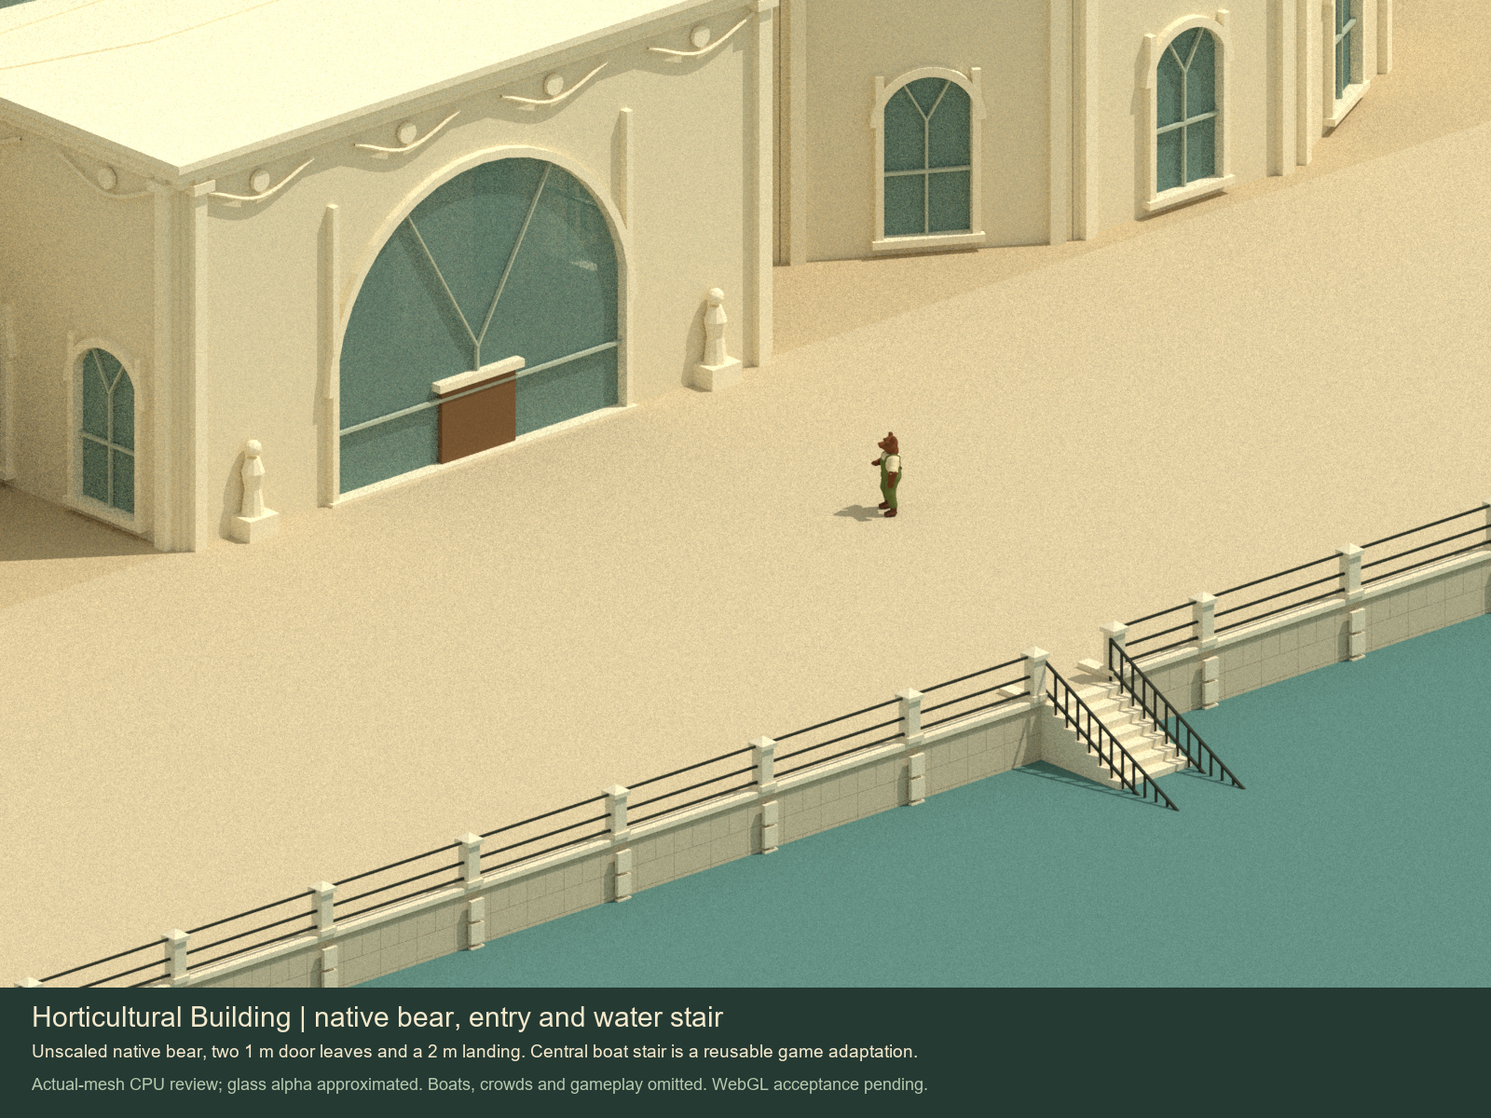
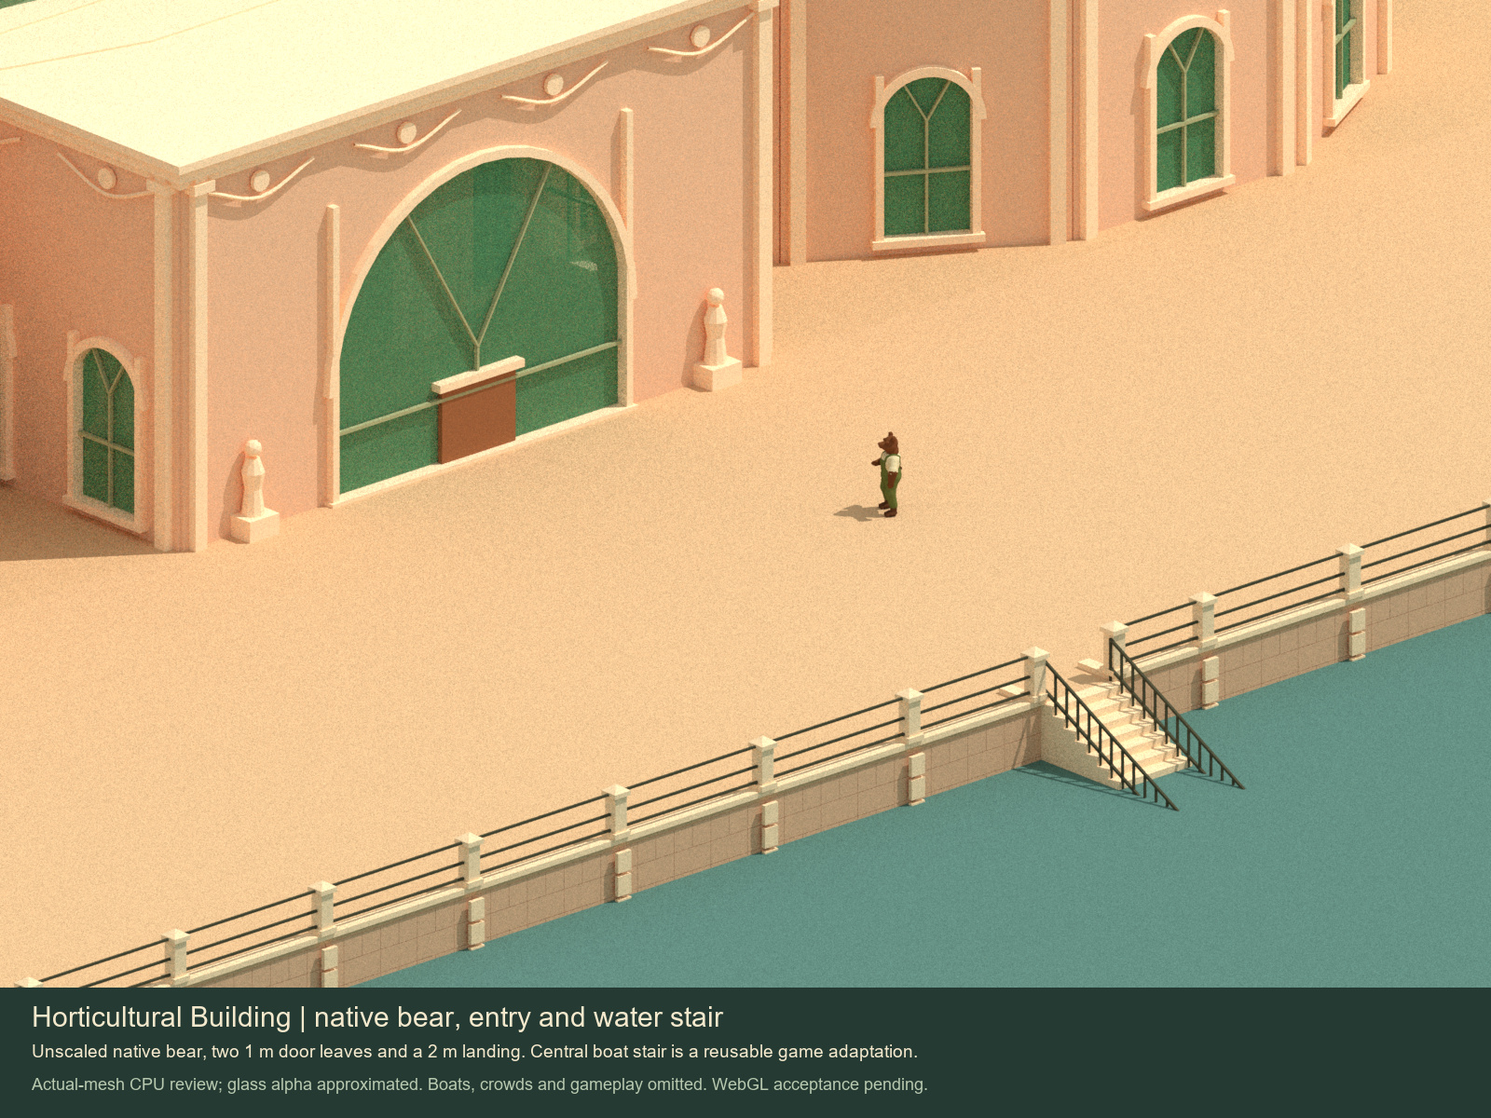
Warm Horticultural Building with soda-green glass and peach palette

Changed region(s): [[0.0, 0.0, 1.0, 0.5858], [0.6875, 0.5858, 0.7812, 0.6783], [0.7812, 0.555, 0.8125, 0.5858]]

diff --git a/assets/art/exposition-horticulture/terrace.js b/assets/art/exposition-horticulture/terrace.js
@@ -1,3 +1,4 @@
+import {HORTICULTURE_TERRACE_PALETTE,HORTICULTURE_PALETTE_ID} from './palette.js';
 import {createWaterfrontTile,APPEARANCE_SLOTS} from '../horticulture-waterfront/index.js';
 import {BODY,inside} from './plan.js';
 export {APPEARANCE_SLOTS as TERRACE_APPEARANCE_SLOTS};
@@ -23,8 +24,17 @@ export function createHorticultureTerrace(T,{materials={},textures={},quarterTur
  if(!Array.isArray(position)||position.length!==3||position.some(v=>!Number.isFinite(v))||!Number.isInteger(position[0])||!Number.isInteger(position[2])||Math.abs(position[1]/2.12-Math.round(position[1]/2.12))>1e-8)throw Error('Native tile placement requires integer X/Z and standard floor Y');
  for(const s of [...Object.keys(materials),...Object.keys(textures)])if(!APPEARANCE_SLOTS.includes(s))throw Error('Unknown appearance slot '+s);
  const root=new T.Group();root.name='exposition-horticulture/assembled-terrace';const prototypes=new Map(),batches=[],groups=new Map(),keys=new Map(),matrix=new T.Matrix4(),dummy=new T.Object3D();let closed=false,sourceParts=0,nativeSlabs=0;
+ const materialBindings={...materials};
+ function applyDefaultPalette(prototype){
+  const seen=new Set();prototype.root.traverse(o=>{
+   if(!o.isMesh||seen.has(o.material))return;seen.add(o.material);
+   const slot=o.userData.appearanceSlot;
+   if(!materialBindings[slot])o.material.color.setHex(HORTICULTURE_TERRACE_PALETTE[slot]);
+  });
+ }
+
  try{
-  for(const type of new Set(TERRACE_LAYOUT.map(p=>p.type)))prototypes.set(type,createWaterfrontTile(T,{type,materials,textures}));
+  for(const type of new Set(TERRACE_LAYOUT.map(p=>p.type))){const prototype=createWaterfrontTile(T,{type,materials,textures});applyDefaultPalette(prototype);prototypes.set(type,prototype);}
   for(const [tileIndex,p]of TERRACE_LAYOUT.entries()){
    const proto=prototypes.get(p.type);dummy.position.fromArray(p.position);dummy.rotation.set(0,p.quarterTurns*Math.PI/2,0);dummy.updateMatrix();
    proto.root.updateMatrixWorld(true);nativeSlabs+=proto.metadata.floorTiles.length;
@@ -42,7 +52,7 @@ export function createHorticultureTerrace(T,{materials={},textures={},quarterTur
    b.transforms.forEach((m,j)=>mesh.setMatrixAt(j,m));mesh.instanceMatrix.needsUpdate=true;mesh.computeBoundingBox();mesh.computeBoundingSphere();mesh.castShadow=mesh.receiveShadow=true;root.add(mesh);batches.push({mesh,source:b.source});
   }
  }catch(error){for(const b of batches)b.mesh.dispose();for(const p of prototypes.values())p.dispose();throw error;}
- root.updateMatrixWorld(true);const bounds=new T.Box3().setFromObject(root),metadata=freeze({assetId:'exposition-horticulture-terrace',version:1,units:'metres',layout:TERRACE_LAYOUT,footprint:[[-153,-18],[153,-18],[153,0],[-153,0]],approachAprons:[[[-153,0],[-117,0],[-117,12],[-153,12]],[[-117,0],[-33,0],[-33,24],[-117,24]],[[33,0],[117,0],[117,24],[33,24]],[[117,0],[153,0],[153,12],[117,12]]],nativeSlabs,deckLevel:1,deckY:2.12,sourceFactory:'createWaterfrontTile',sourceModule:'../horticulture-waterfront/index.js',sourceCommit:'c6ddd51d7dd47a2ec148159e6a6d64a8d00bd2a9',appearanceSlots:APPEARANCE_SLOTS,anchor:'Same ground and central-front anchor as the building. Main deck rear edge meets Z=0, with native approach aprons filling the source-plan front setbacks; water faces -Z.',adaptations:['306 x18 m waterfront strip plus4896 square metres of approach aprons, regularly spaced piers and one central two-metre stair are game placement choices, not a measured historic site plan.','Only original native shoreline recipe parts are used; no stretch and no duplicated private recipe.','Water, bulk land fill, historical crowds/boats and collision/traversal are omitted.'],localBounds:{min:bounds.min.toArray(),max:bounds.max.toArray()}});
+ root.updateMatrixWorld(true);const bounds=new T.Box3().setFromObject(root),metadata=freeze({assetId:'exposition-horticulture-terrace',version:1,units:'metres',layout:TERRACE_LAYOUT,footprint:[[-153,-18],[153,-18],[153,0],[-153,0]],approachAprons:[[[-153,0],[-117,0],[-117,12],[-153,12]],[[-117,0],[-33,0],[-33,24],[-117,24]],[[33,0],[117,0],[117,24],[33,24]],[[117,0],[153,0],[153,12],[117,12]]],nativeSlabs,deckLevel:1,deckY:2.12,sourceFactory:'createWaterfrontTile',sourceModule:'../horticulture-waterfront/index.js',sourceCommit:'c6ddd51d7dd47a2ec148159e6a6d64a8d00bd2a9',appearanceSlots:APPEARANCE_SLOTS,palette:{id:HORTICULTURE_PALETTE_ID,swatches: HORTICULTURE_TERRACE_PALETTE},anchor:'Same ground and central-front anchor as the building. Main deck rear edge meets Z=0, with native approach aprons filling the source-plan front setbacks; water faces -Z.',adaptations:['306 x18 m waterfront strip plus4896 square metres of approach aprons, regularly spaced piers and one central two-metre stair are game placement choices, not a measured historic site plan.','Only original native shoreline recipe parts are used; no stretch and no duplicated private recipe.','Water, bulk land fill, historical crowds/boats and collision/traversal are omitted.'],localBounds:{min:bounds.min.toArray(),max:bounds.max.toArray()}});
  function setAppearance({materials:newMaterials={},textures:newTextures={}}={}){
   if(closed)throw Error('Terrace is disposed');
   for(const s of [...Object.keys(newMaterials),...Object.keys(newTextures)])if(!APPEARANCE_SLOTS.includes(s))throw Error('Unknown appearance slot '+s);
@@ -50,7 +60,8 @@ export function createHorticultureTerrace(T,{materials={},textures={},quarterTur
   // cannot partially reskin a multi-prototype assembly.
   for(const [s,m]of Object.entries(newMaterials))if(m&&!m.isMaterial)throw Error('Expected Three material in '+s);
   for(const [s,t]of Object.entries(newTextures))if(t&&!t.isTexture)throw Error('Expected Three texture in '+s);
-  for(const p of prototypes.values())p.setAppearance({materials:newMaterials,textures:newTextures});
+  Object.assign(materialBindings,newMaterials);
+  for(const p of prototypes.values()){p.setAppearance({materials:newMaterials,textures:newTextures});applyDefaultPalette(p);}
   for(const b of batches)b.mesh.material=b.source.material;
  }
  root.position.fromArray(position);root.rotation.y=quarterTurns*Math.PI/2;root.updateMatrixWorld(true);

diff --git a/assets/art/exposition-horticulture/index.js b/assets/art/exposition-horticulture/index.js
@@ -1,10 +1,12 @@
+import {HORTICULTURE_PALETTE,HORTICULTURE_PALETTE_ID} from './palette.js';
+export {HORTICULTURE_PALETTE,HORTICULTURE_PALETTE_ID};
 import {createForms} from '../exposition-new-york/forms.js';
 import {PLAN,ROTUNDA,SMALL_PAVILIONS} from './plan.js';
 import {PROFILE as S,levelY,compileNautilusStructure,ENGINE_PIN} from './engine.js';
 import {compileFloor} from './floors.js';
 export {PLAN} from './plan.js';
 export const APPEARANCE_SLOTS=Object.freeze(['facade','trim','glazing','frame','roof','cupola','door','floor','foliage','trunk','soil','water','fruit']);
-const DEFAULTS={facade:0xe2d8bd,trim:0xeee5cc,glazing:0x92b9b2,frame:0xb2bdac,roof:0x707d77,cupola:0x5e7068,door:0x795a3d,floor:0xc0af8e,foliage:0x4a7448,trunk:0x705339,soil:0x695740,water:0x5c9690,fruit:0xca8b38};
+const DEFAULTS=HORTICULTURE_PALETTE;
 const freeze=v=>{if(v&&typeof v==='object'){Object.values(v).forEach(freeze);Object.freeze(v);}return v;};
 export function createHorticulturalBuilding(T,{materials={},textures={},quarterTurns=0,position=[0,0,0],includePlanting=true}={}){
  if(!Number.isInteger(quarterTurns)||quarterTurns<0||quarterTurns>3)throw Error('quarterTurns must be0..3');
@@ -170,7 +172,7 @@ export function createHorticulturalBuilding(T,{materials={},textures={},quarterT
     const id=floor.id+'/boundary-assembly',mesh=new T.Mesh(geometry,slots[floor.slot]);mesh.name=id;mesh.userData={componentId:id,appearanceSlot:floor.slot,form:'boundary-slab-assembly',role:'floor',floorId:floor.id,level:floor.level,parts:ranges};root.add(mesh);f.meshes.push(mesh);f.components.push(id);f.geometries.set(id,geometry);mergedBoundaryParts+=parts.length;boundaryAssemblies++;
   }
  root.updateMatrixWorld(true);const bounds=new T.Box3().setFromObject(root),assembly=f.finalize(root);for(const mesh of f.meshes)if(mesh.userData.appearanceSlot==='glazing')mesh.castShadow=false;
- const metadata=freeze({assetId:'exposition-horticulture-1893',version:1,units:'metres',nativeContract:S,plan:PLAN,localBounds:{min:bounds.min.toArray(),max:bounds.max.toArray()},appearanceSlots:APPEARANCE_SLOTS,
+ const metadata=freeze({assetId:'exposition-horticulture-1893',version:1,units:'metres',nativeContract:S,plan:PLAN,localBounds:{min:bounds.min.toArray(),max:bounds.max.toArray()},appearanceSlots:APPEARANCE_SLOTS,palette:{id: HORTICULTURE_PALETTE_ID,swatches: HORTICULTURE_PALETTE,interpretation:"User-directed soda-green glazing and warm sunset-peach finishes; historical cream staff remains documented separately."},
   nautilus:{enginePin:ENGINE_PIN,compiler:compiled.compiler,panels:compiled.panels.length,tiers:compiled.tiers,materialToken:compiled.materialToken},structuralPieces,seamPieces,floorTiles,floors:floorMeshes,stairs,domes,plants,passages,physicalMaterial:{structure:'unassigned',finish:'unassigned'},sourceIds:['HORT-CONKEY-1893','HORT-ARNOLD-1893','HORT-WALKER-1893'],
   interiors:'Native first floor, two court gardens, pavilion galleries with open wells, central gallery ring, three straight stairs and interpretive palm/fern/orange planting. No exact exhibit layout, concealed service-room plan or navigation acceptance.',
   integration:'Whole-building native art assembly for later Nautilus/Tinderbox provider intake. Not registered in the fixed catalogue or production world; simulation, collision, fire and traversal remain consumer-owned.',

diff --git a/assets/art/exposition-horticulture/palette.js b/assets/art/exposition-horticulture/palette.js
@@ -1,0 +1,11 @@
+// User-directed sunset-peach and soda-green art palette. Values are sRGB hex.
+// This finish direction is an adaptation, not a claim to measured 1893 colours.
+export const HORTICULTURE_PALETTE_ID='soda-green-waning-sun-v1';
+export const HORTICULTURE_PALETTE=Object.freeze({
+ facade:0xebc1a5,trim:0xffe4c6,glazing:0x69b88a,frame:0xa8af8a,
+ roof:0x7b8469,cupola:0x52765e,door:0x9b6545,floor:0xd3b18c,
+ foliage:0x4a7448,trunk:0x705339,soil:0x695740,water:0x719f89,fruit:0xca8b38
+});
+export const HORTICULTURE_TERRACE_PALETTE=Object.freeze({
+ facade:0xd8af91,coping:0xf9dcba,paving:0xd6b38f,rail:0x4b4b3c,ornament:0xf9dcba
+});

diff --git a/art/source/exposition-horticulture/finish-review.py b/art/source/exposition-horticulture/finish-review.py
@@ -5,7 +5,7 @@ ROOT=Path(__file__).resolve().parents[3];base=ROOT/'artifacts/exposition-horticu
 def write(p,v):p.write_text(json.dumps(v,indent=2)+'\n',encoding='utf-8',newline='\n')
 criteria={
  'waterfront-exterior':['Whole frontage, end pavilions, two courts and complete water-edge assembly fit the view.','Native slab approach joins the galleries; no grass gap remains.'],
- 'central-pavilion':['Great dome and lantern, twin low ribbed foyers, central entry, long glazed galleries and cream ornament are readable.','No incorrect opaque backing covers roof glass or cupola vent cells; final geometry/rays provide independent checks.'],
+ 'central-pavilion':['Great dome and lantern, twin low ribbed foyers, central entry, long glazed galleries and peach/ivory ornament and soda-green glazing are readable.','No incorrect opaque backing covers roof glass or cupola vent cells; final geometry/rays provide independent checks.'],
  'rear-exterior':['Rear ordinary-light curtain, courts and end-pavilion roofs are shown; unseen historic profiles remain labelled simplifications.','Native upper end-pavilion wall bands now meet the taller roof eaves; ray checks sample their closure.'],
  'roof-plan':['Three-pavilion/two-court layout, glazed front curtains, twin foyer caps and lantern are distinct.'],
  'interior-cutaway':['Review-only roof/high-wall removal exposes the gallery voids, central stair and palm hall.','No upper full floor seals the central vertical axis; first and upper floors use native levels.'],
@@ -34,7 +34,7 @@ try:released=s.connect_ex(('127.0.0.1',r['port']))!=0
 finally:s.close()
 assert released and r['released'] and r['passed'];receipts.append(dict(record=p.relative_to(ROOT).as_posix(),pid=r['pid'],creationFiletime=r['creationFiletime'],lifetimeExited=True,port=r['port'],released=True))
 write(base/'helper-completion.json',dict(checkedAt=now,owner='01a17ea0-1362-7d13-a42d-f4a5fcff8902',retained=[],receipts=receipts,note='Initial CPU transparency-adapter trial failed before rendering and exited; final all-view render succeeded. No task-owned helper remains running. No process was killed.'))
-checks=json.loads((base/'check-results.json').read_text(encoding='utf-8'));assert checks['passed']and checks['packageChecked'];write(out/'check-results.json',dict(checkedAt=now,repositoryChecks=dict(passed=True,tests=85,syntaxScripts=91,staticModules=131),build=dict(passed=True,files=161,nestedPathResources=True),focused=checks,helpers=dict(retained=0,rendererLifetimesChecked=len(receipts)-1,packagePortReleased=True),visual=dict(reviewedJPGs=len(criteria),renderer='Mitsuba3.9.1 scalar_rgb; actual exported meshes',gpuAcceptance='Pending; CPU alpha approximation does not establish WebGL/browser acceptance')))
+checks=json.loads((base/'check-results.json').read_text(encoding='utf-8'));assert checks['passed']and checks['packageChecked'];write(out/'check-results.json',dict(checkedAt=now,repositoryChecks=dict(passed=True,tests=85,syntaxScripts=91,staticModules=132),build=dict(passed=True,files=162,nestedPathResources=True),focused=checks,helpers=dict(retained=0,rendererLifetimesChecked=len(receipts)-1,packagePortReleased=True),visual=dict(reviewedJPGs=len(criteria),renderer='Mitsuba3.9.1 scalar_rgb; actual exported meshes',gpuAcceptance='Pending; CPU alpha approximation does not establish WebGL/browser acceptance')))
 # Parse new source and check local Markdown links without importing/executing it.
 roots=[ROOT/'art/source/exposition-horticulture',ROOT/'assets/art/exposition-horticulture',out]
 files=[p for d in roots for p in d.rglob('*')if p.is_file()]

diff --git a/docs/art/exposition-horticulture/offline-review.md b/docs/art/exposition-horticulture/offline-review.md
@@ -8,8 +8,8 @@ Artist candidate on `codex/horticultural-building-art`, from `c6ddd51d7dd47a2ec1
 | --- | --- |
 | `python art/source/exposition-horticulture/prepare-evidence.py` | Public-domain evidence, raw/derived hashes, explicit measurements and 165 preserved prior-delivery files recorded |
 | `node art/source/exposition-horticulture/build-manifest.mjs` | Runtime closure and metadata hashed; 6,076 actual Nautilus panels in validated wall fragments |
-| `node tools/check.mjs` | 91 own scripts pass syntax, 131 static modules resolve, 85 tests pass; shared renderer/provenance checks pass |
-| `node tools/build.mjs` | 161 packaged files, 45,502,044 bytes; relative resource paths; research/preview sources excluded |
+| `node tools/check.mjs` | 91 own scripts pass syntax, 132 static modules resolve, 85 tests pass; shared renderer/provenance checks pass |
+| `node tools/build.mjs` | 162 packaged files; relative resource paths; research/preview sources excluded |
 | `node workbenches/art/check-exposition-horticulture.mjs --package` | Pass: dimensions, topology, native buffer identity, openings, eave closures, floor/landing rays, all four poses, ownership and nested-path package |
 | Actual-mesh export and Mitsuba scalar render | Seven final building views rendered at 32 samples per pixel |
 | Source-plan comparison / height audit | Two additional JPGs reviewed |
@@ -25,7 +25,7 @@ The assembled terrace preserves the original shoreline recipes. Its 10,404 nativ
 
 Nine final JPGs have individual SHA-256/review receipts in [previews](previews/). Reviewed views are the full waterfront exterior, central pavilion, rear, roof plan, structural interior cutaway, gallery stair, native bear/entry/water stair, period plan comparison and native height audit. See the [gallery](README.md) and [handoff](handoff.md).
 
-The complete building has a glazed great dome and lantern, twin low ribbed front caps, cream arcades and floral friezes. The long galleries, open courts and end roofs remain legible at whole-building scale; detail views retain native bear/door proportions. The upper end-pavilion wall bands and cornices meet their taller roof eaves. The open ground-level side in the gallery cutaway is the connection to the front curtain, revealed by review-only roof/high-wall removal.
+The complete building has a glazed great dome and lantern, twin low ribbed front caps, peach arcades, ivory details and floral friezes. The long galleries, open courts and end roofs remain legible at whole-building scale; detail views retain native bear/door proportions. The upper end-pavilion wall bands and cornices meet their taller roof eaves. The open ground-level side in the gallery cutaway is the connection to the front curtain, revealed by review-only roof/high-wall removal.
 
 CPU glass uses null/diffuse alpha blending to approximate the actual default Three material. The render proves the submitted geometry's stated appearance only. It does not establish WebGL shader compilation, alpha sorting, interactive performance, navigation or game-scale acceptance. The inherited workflow records disabled WebGL in the available review browser; no real browser acceptance or production promotion is claimed here.
 
@@ -38,3 +38,9 @@ Unknown rear profiles, concealed services, exact exhibits, material physics, fin
 Changed paths are confined to `assets/art/exposition-horticulture/`, `art/source/exposition-horticulture/`, `docs/art/exposition-horticulture/` and the focused art workbench. The production game/editor is not wired to this whole-building asset. Provider registration, placement, multilevel fire, collision/traversal, GPU review and performance/LOD decisions remain with the architect/coder contract.
 
 Temporary render/package helpers have durable source and restart instructions in the [handoff](handoff.md). Exact PID/creation receipts and released-port checks are under ignored `artifacts/exposition-horticulture/`. No service is retained; no unrelated process was stopped.
+
+## Soda-green / warm peach palette revision
+
+The user requested greener soda glass and peach warmth like waning sunlight. The building now defaults to palette `soda-green-waning-sun-v1`; its assembled terrace uses matching warm materials. The palette changes actual material colours. All seven mesh views use the original camera/light setup. Historical source records retain the original cream-staff statement; current colours are an explicit art adaptation.
+
+A direct comparison against `c4287338ff93907900a94a86b6c7e3bed0ae7c2f` verifies identical building and terrace mesh buffers, indices, instance transforms, bounds and structural recipes. Consumer material overrides remain borrowed/cloned and survive later texture-only updates; default terrace colours also survive texture-only updates. No new geometry or gameplay behavior is introduced. Final commands/metrics remain recorded in `check-results.json`; package and helper receipts remain ignored locally.

diff --git a/docs/art/exposition-horticulture/handoff.md b/docs/art/exposition-horticulture/handoff.md
@@ -22,7 +22,7 @@ The generator calls unchanged Nautilus `wallPanels`, `measureWallRun` and `wallR
 
 The crown is a height marker, **not 16 occupied storeys**. Tall rooms contain empty intermediate levels. No full floor seals the central vertical axis above L1. The front foyer roofs do extend over their own hall volumes near the rotunda perimeter. Two stair locations follow the diagram's end-pavilion arrangement; the rear central stair, straight flights, upper gallery wells and ring dimensions are explicit access adaptations.
 
-The asset's `.16 m` physical wall thickness is retained. Cream staff is a visual finish; the authoring `concrete` enum only validates the wall fragment. Structure, finish physics, fuel, collision and fire remain unassigned.
+The asset's `.16 m` physical wall thickness is retained. Staff colour is a visual finish; the authoring `concrete` enum only validates the wall fragment. Structure, finish physics, fuel, collision and fire remain unassigned.
 
 ## Source evidence and uncertainty
 
@@ -36,7 +36,22 @@ Arnold/Higinbotham's 1893 plate 43 establishes the dome, lantern, glazed galleri
 
 E. R. Walker's 1893 front photograph (Chicago archive `apf3-00081`) was inspected to check the paired cupolas, arch and frieze. Its commercial reproduction terms are unresolved; **none of those image pixels are redistributed**. The raw cached research image stays ignored. The public Arnold source independently supports the major visible forms.
 
-Rear/end roof profiles, hidden foyer joins, exact upper subdivisions, individual sculpture, service rooms and historic exhibit placement remain incomplete evidence. End hips, repeated arch rhythm, floral bosses/swags, planting arrangement, cafe furniture, roof/glass/frame hues, railing rhythm and the central water stair are simplified art choices. Cream staff alone has period colour support. No complete as-built reconstruction is claimed.
+Rear/end roof profiles, hidden foyer joins, exact upper subdivisions, individual sculpture, service rooms and historic exhibit placement remain incomplete evidence. End hips, repeated arch rhythm, floral bosses/swags, planting arrangement, cafe furniture, roof/glass/frame hues, railing rhythm and the central water stair are simplified art choices. Cream staff alone has period colour support. The current peach/soda-green finish follows the later user art direction recorded below. No complete as-built reconstruction is claimed.
+
+## Warm colour revision
+
+The user requested warmer colour, greener glass like soda glass, and a peach tone like waning sunlight. Palette `soda-green-waning-sun-v1` now supplies the default building and assembled terrace materials through `assets/art/exposition-horticulture/palette.js`.
+
+| Slot / group | sRGB colour |
+| --- | --- |
+| Soda-green glazing | `#69b88a` |
+| Peach plaster | `#ebc1a5` |
+| Warm ivory trim | `#ffe4c6` |
+| Muted green cupolas | `#52765e` |
+| Terrace paving | `#d6b38f` |
+| Terrace coping / ornament | `#f9dcba` |
+
+These are user-directed game colours, separate from the period cream-staff evidence. The [palette preservation audit](palette-review.json) records direct geometry/structure digest comparisons with the original frozen commit. Building and terrace geometry, native units, openings, anchors, glass opacity and floor heights are preserved. Review lighting/cameras are the same as the original delivery. The original standalone shoreline recipes retain their original defaults; the companion assembly tints only its owned material instances and respects consumer material overrides, including after a texture swap. This palette file can be reused by later Nautilus art.
 
 ## Factory and ownership contract
 

diff --git a/docs/art/exposition-horticulture/README.md b/docs/art/exposition-horticulture/README.md
@@ -4,6 +4,8 @@ Native Nautilus art candidate on `codex/horticultural-building-art`, built from 
 
 ![Horticultural Building and waterfront](previews/waterfront-exterior.jpg)
 
+The current palette pairs soda-green glass with sunset-peach plaster, warm ivory details and a matching terrace. These are the user’s art-directed colours.
+
 The building has a great glass dome and lantern, twin ribbed front cupolas, long glazed galleries, two planted courts, pavilion galleries and three stairs. Its companion terrace uses the unchanged shoreline recipes. Ordinary walls, doors and floor slabs preserve native geometry; the dome, curved ornament, boundary cuts and stairs are explicit custom forms.
 
 - [Central pavilion](previews/central-pavilion.jpg), [rear exterior](previews/rear-exterior.jpg), [roof plan](previews/roof-plan.jpg).
